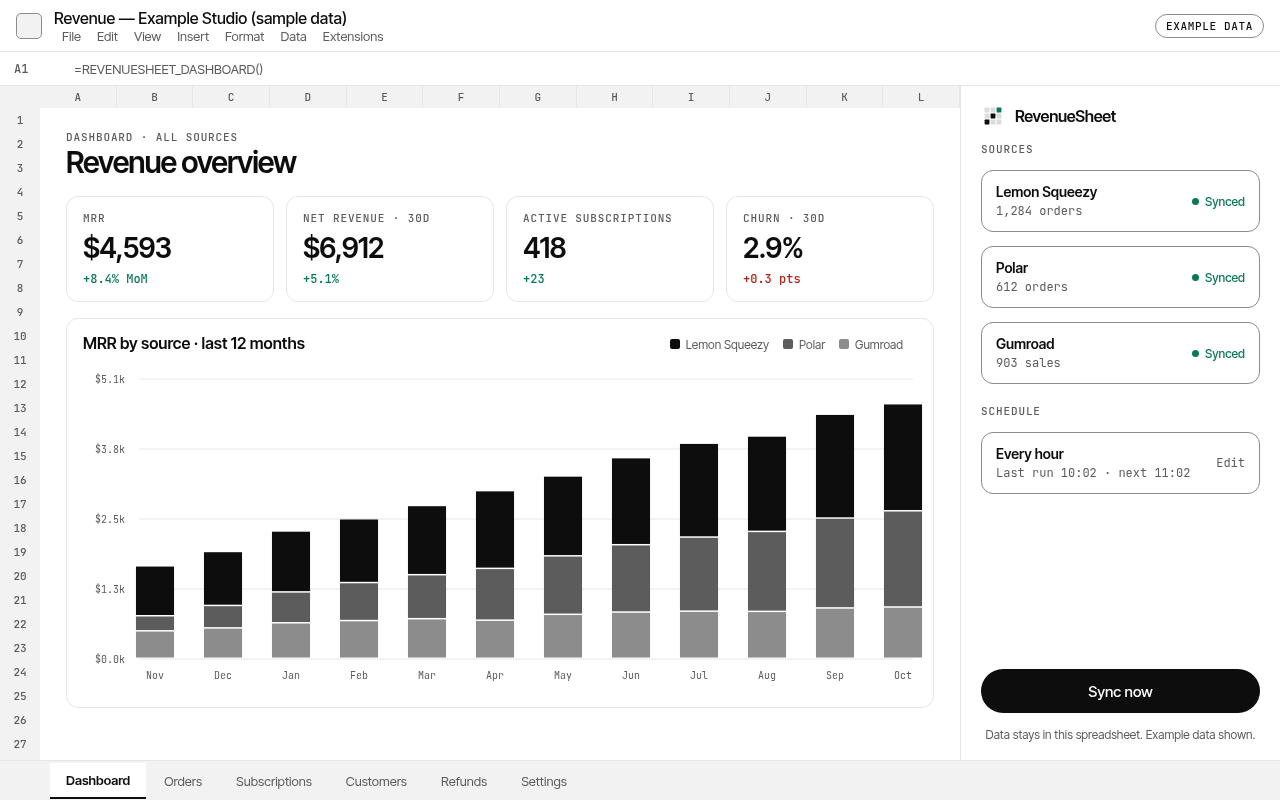
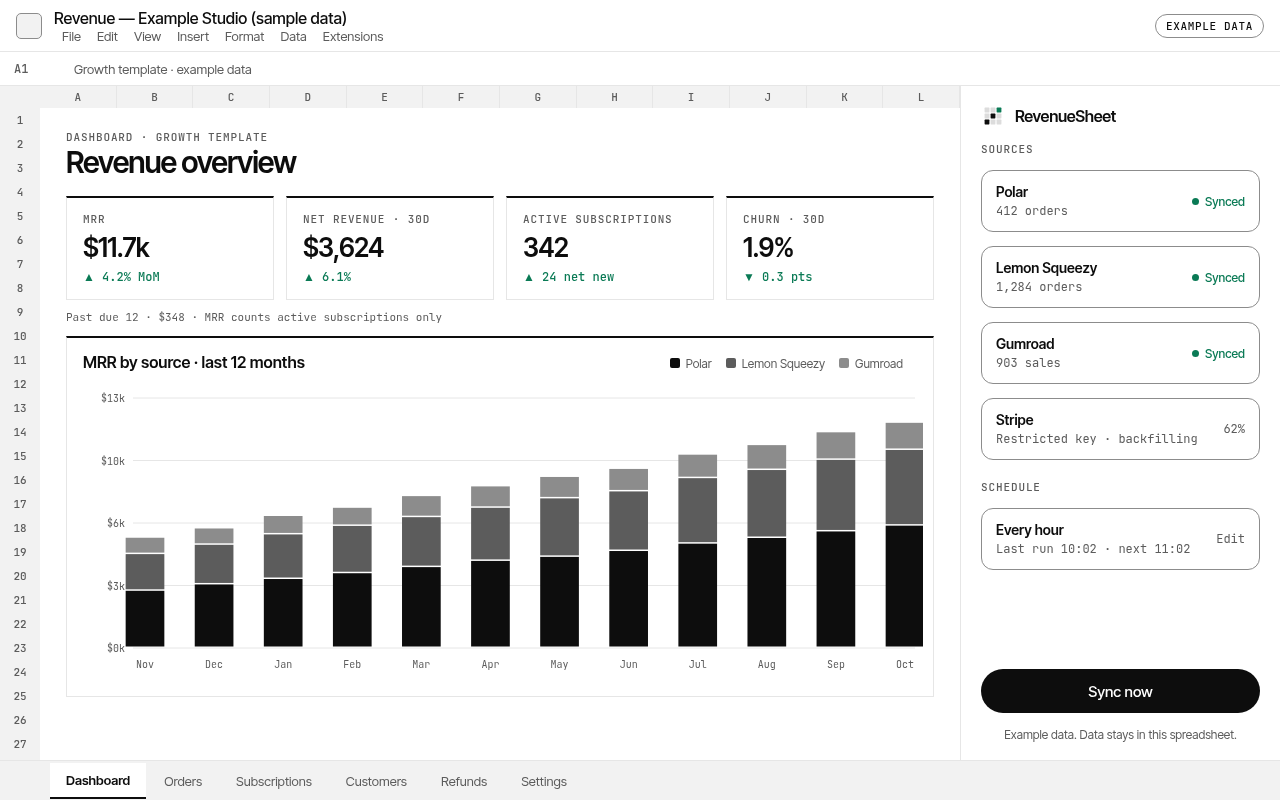
chore: marketplace final screenshots + marketing crops
Replace listing screenshots with launch/marketplace/final 1280×800 set
(dashboard, growth, cohorts, connect, schedule). Point README listing at
them. Keep How it works / What lands crops from the same PR batch.

diff --git a/components/LandingSections.tsx b/components/LandingSections.tsx
@@ -135,7 +135,7 @@ export function WhatLands() {
               src="/design/lands-orders-2x.png"
               alt="Orders tab with Order ID, created, source, product, email, amount, and status"
               width={2400}
-              height={1000}
+              height={1800}
               sizes="(max-width: 900px) 100vw, 55vw"
               quality={70}
             />

diff --git a/addon/README.md b/addon/README.md
@@ -4,7 +4,7 @@ Clasp-ready Apps Script (TypeScript) that syncs Lemon Squeezy, Polar, and Gumroa
 
 Brand name is swappable from a single constant: [`src/lib/brand.ts`](src/lib/brand.ts) (`BRAND.name`). The placeholder logo is the **Ledger Cell** mark (`design/ledger-cell-mark*.png`, logo-v2 concept 3).
 
-Design target (launch v2): [`design/revenuesheet-dashboard-template-preview.png`](design/revenuesheet-dashboard-template-preview.png) · [`design/revenuesheet-dashboard-template.xlsx`](design/revenuesheet-dashboard-template.xlsx) · [`design/SHEET-STYLE.md`](design/SHEET-STYLE.md). Marketplace listing assets: [`design/marketplace/`](design/marketplace/).
+Design target (launch v2): [`design/revenuesheet-dashboard-template-preview.png`](design/revenuesheet-dashboard-template-preview.png) · [`design/revenuesheet-dashboard-template.xlsx`](design/revenuesheet-dashboard-template.xlsx) · [`design/SHEET-STYLE.md`](design/SHEET-STYLE.md). Marketplace listing assets: [`design/marketplace/`](design/marketplace/) (icons + final 1280×800 screenshots).
 
 ## Prerequisites
 
@@ -80,7 +80,10 @@ These steps need a human with the Google Cloud / Workspace Marketplace publisher
 1. **GCP project** — create/link the Apps Script project; enable Google Sheets API + Apps Script API.
 2. **OAuth consent screen** — External; app name from `BRAND.name`; scopes listed above; add homepage, privacy, and terms URLs from the Next.js site.
 3. **OAuth verification** — because `script.external_request` and Sheets scopes are used in a public add-on; prepare demo video + verified domain.
-4. **Marketplace listing** — listings CDN assets in `design/` (`icon-32.png`, `icon-128.png`, screenshots); category Productivity; publish as Sheets add-on.
+4. **Marketplace listing** — assets in [`design/marketplace/`](design/marketplace/):
+   - Icons / card: `icon-32.png`, `icon-128.png`, `card-banner-220x140.png`
+   - Screenshots (1280×800 finals): `screenshot-1-dashboard`, `screenshot-2-growth`, `screenshot-3-cohorts`, `screenshot-4-connect`, `screenshot-5-schedule`
+   - Category Productivity; publish as Sheets add-on.
 5. **License API** — deploy the web app’s `/api/license/verify` and set `LICENSE_API_BASE` on the script.
 
 ## Project layout
